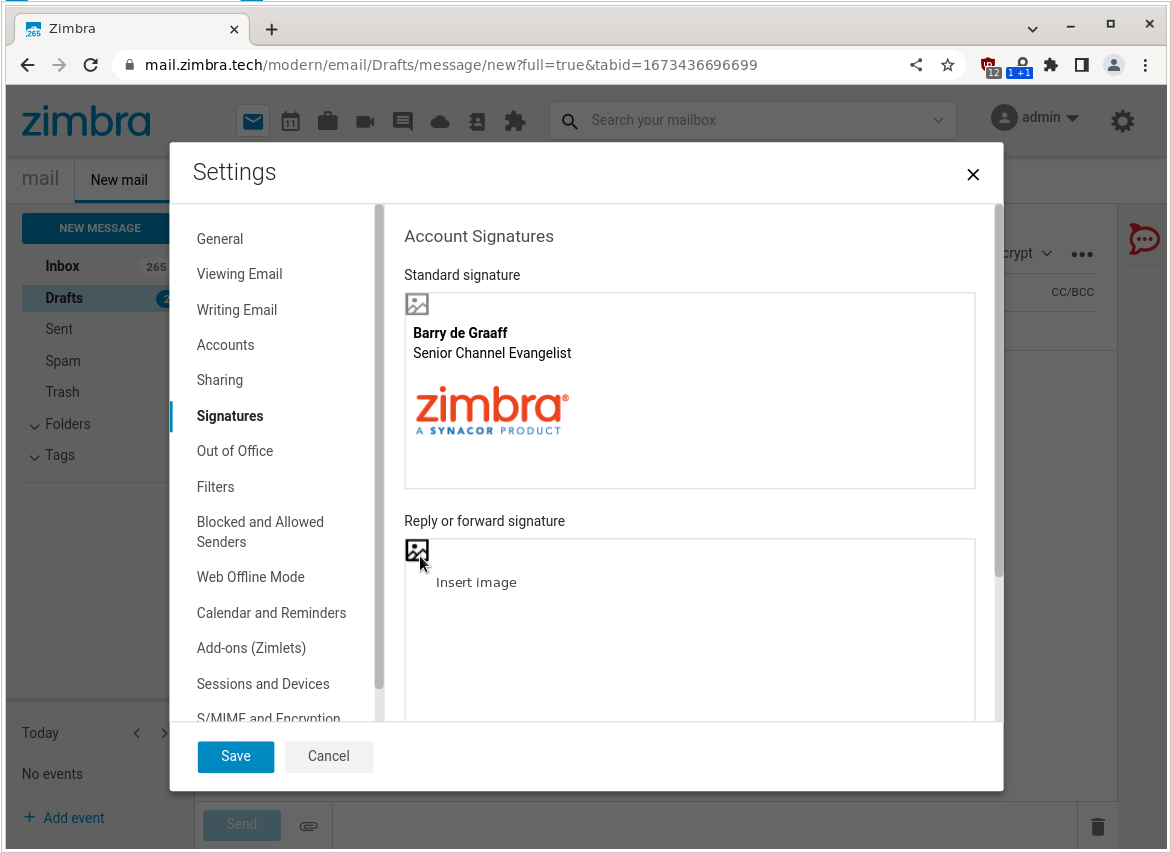
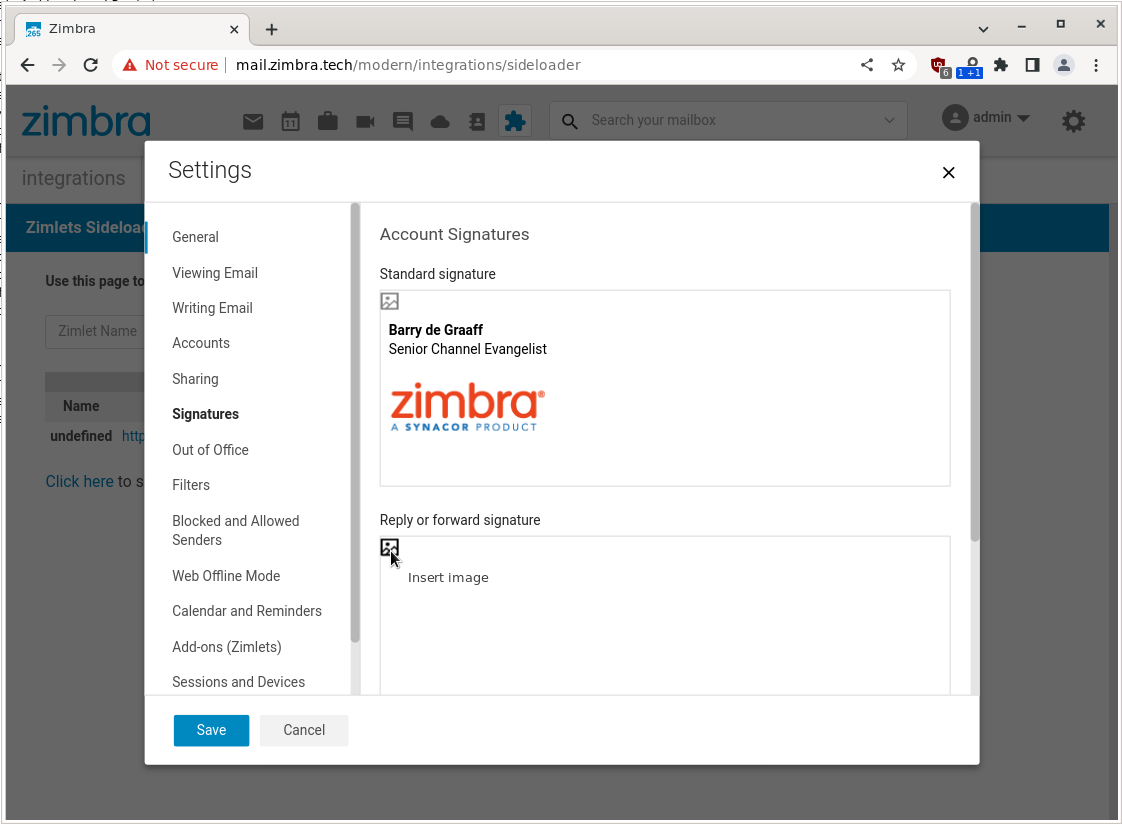
avoid using input id

diff --git a/src/style.less b/src/style.less
@@ -1,15 +1,15 @@
  .zimbra-zimlet-signature-image {    
[1 lines of base64/hex data omitted]
-    padding-left:24px;
-    min-height: 24px;
-    width: 24px;
-    background-size: 24px 24px;
+    padding-left:18px;
+    min-height: 18px;
+    width: 18px;
+    background-size: 18px 18px;
  }
 
  .zimbra-zimlet-signature-image:hover {    
[1 lines of base64/hex data omitted]
-    padding-left:24px;
-    min-height: 24px;
-    width: 24px;
-    background-size: 24px 24px;
+    padding-left:18px;
+    min-height: 18px;
+    width: 18px;
+    background-size: 18px 18px;
  }

diff --git a/src/components/more/index.js b/src/components/more/index.js
@@ -3,6 +3,9 @@ import { useContext, useCallback } from 'preact/hooks';
 import { IntlContext } from 'preact-i18n';
 import { compose } from 'recompose';
 import { withIntl } from '../../enhancers';
+//import dompurify from 'dompurify';
+
+//dompurify shim is not released yet...
 
 function createMore(props, context) {
    const { intl } = useContext(IntlContext);
@@ -12,20 +15,28 @@ function createMore(props, context) {
    }, [props, context, zimletStrings]);
 
    if (props.editorType === 'signature') {
-      return (<span><input type="file" title={zimletStrings.menuItem} name="signatureImageFileInput" id="signatureImageFileInput" class="zimbra-zimlet-signature-image" onChange={insertImageHandler} accept="image/gif, image/jpeg, image/png" /></span>);
+      return (<span><input type="file" title={zimletStrings.menuItem} name="signatureImageFileInput" class="zimbra-zimlet-signature-image" onChange={insertImageHandler} accept="image/gif, image/jpeg, image/png" /></span>);
    }
 }
 
 function insertImage(props, context, zimletStrings) {
-   let file = window.parent.document.getElementById('signatureImageFileInput').files[0];
-   window.parent.document.getElementById('signatureImageFileInput').value=""; //In case the user re-tries the same image, we want the onChange to fire.
+   let fileInputs = window.parent.document.getElementsByClassName('zimbra-zimlet-signature-image');//.files[0];
+   let file;
+   for (var i = 0; i < fileInputs.length; i++) {
+      if(fileInputs[i].files.length > 0)
+      {
+         file = fileInputs[i].files[0];
+      }
+   }
    var reader = new FileReader();
    reader.readAsDataURL(file);
-   reader.onload = function () {
+   reader.onloadend = function () {
       let content = props.getComposer().getContent();
-      console.log(content);
-      props.getComposer().setContent(content + '<img src="' + reader.result + '">');
-      console.log(reader.result);
+      //props.getComposer().setContent(dompurify.sanitize(content) + '<img src="' + dompurify.sanitize(reader.result) + '">');
+      props.getComposer().setContent(content + '<img src="' +reader.result + '">');
+      for (var i = 0; i < fileInputs.length; i++) {
+         fileInputs[i].value=""; //In case the user re-tries the same image, we want the onChange to fire.
+      }
    }
 }
 
